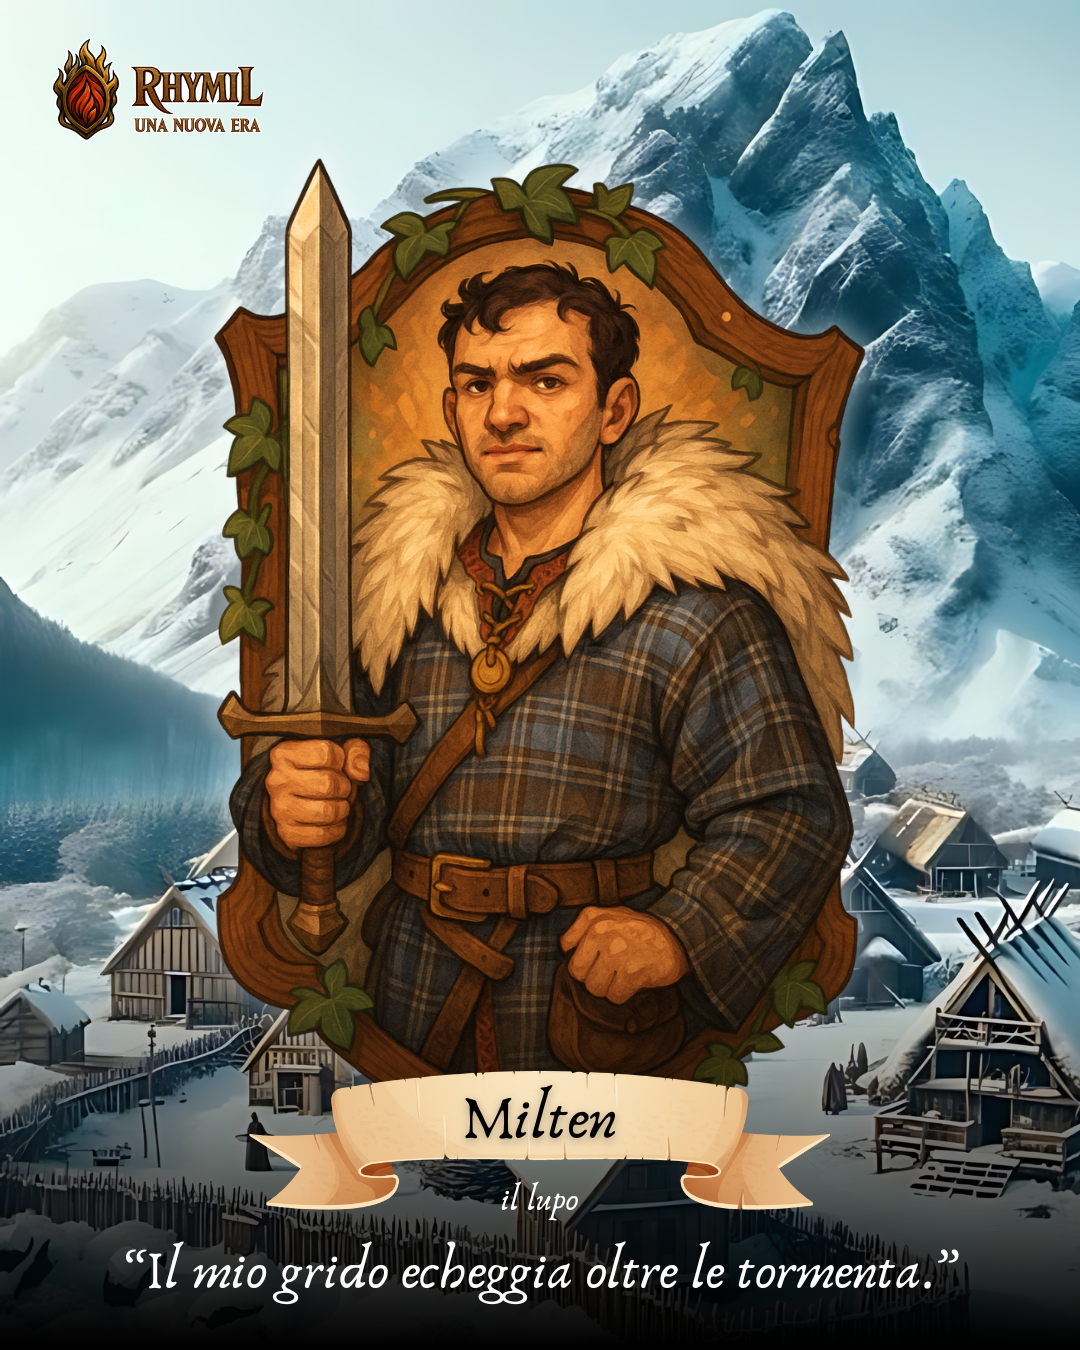
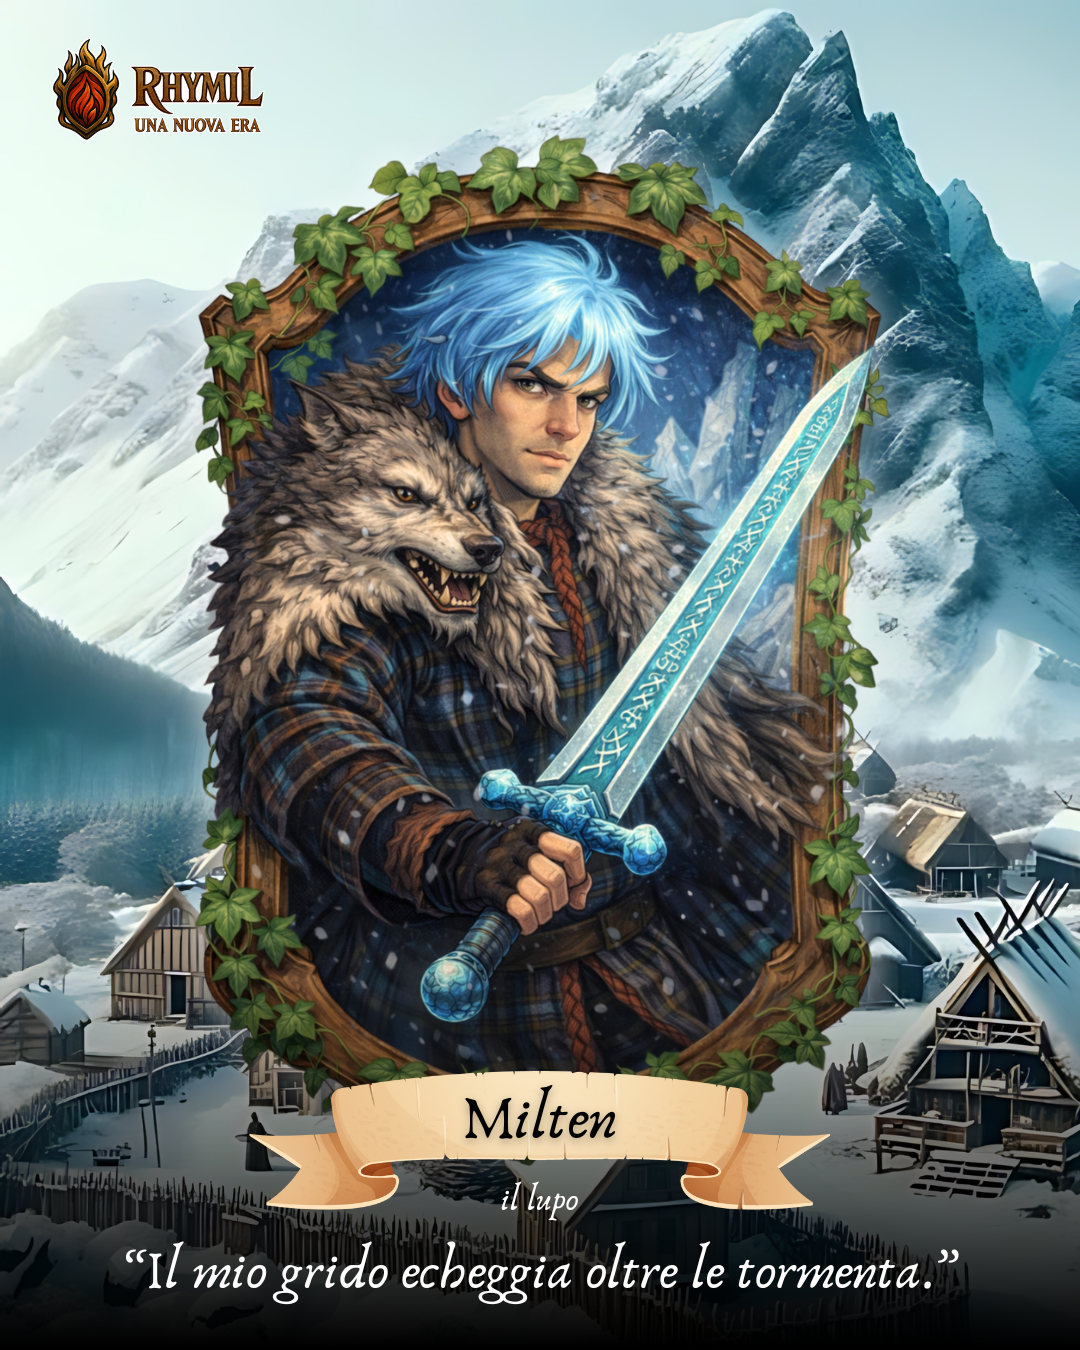
pg with chatgpt 5.2

diff --git a/index.html b/index.html
@@ -121,7 +121,7 @@
   <body>
     <header id="header">
       <div class="inner">
-        <p class="version">v1.8</p>
+        <p class="version">v1.9</p>
         <a href="#" class="image logo"><img src="./images/avatar.png" /></a>
         <p class="description">
           Benvenuto su Rhymil, il sito web centralizzatore di link ed
@@ -213,27 +213,6 @@
         </li>
       </ul>
       <div class="factions">
-        
-        
-        
-        
-        
-        
-        
-        
-        
-        
-        
-        
-        
-        
-        
-        
-        
-        
-        
-        
-        
         
         
         
@@ -472,9 +451,6 @@
           </section>
 
           
-  
-  
-  
   <section id="section-stato-del-popolo-libero" class="panel-section">
     <h3 class="panel-title">
       ✊ Stato del Popolo Libero
@@ -538,8 +514,8 @@
     </span>
   </a>
 
-  <a href="/rhymil/stato-del-popolo-libero/p_mallacht.png?version=1" data-pswp-width="1080" data-pswp-height="1350" title="Mallacht Barbabianca">
-    <img src="/rhymil/stato-del-popolo-libero/thumb/p_mallacht.png?version=1" width="110" alt="Mallacht Barbabianca" loading="lazy" />
+  <a href="/rhymil/stato-del-popolo-libero/p_mallacht.png?version=2" data-pswp-width="1080" data-pswp-height="1350" title="Mallacht Barbabianca">
+    <img src="/rhymil/stato-del-popolo-libero/thumb/p_mallacht.png?version=2" width="110" alt="Mallacht Barbabianca" loading="lazy" />
     <span class="pswp-caption-content">
       <span class="myimage-name">Mallacht Barbabianca</span>
       <span class="myimage-owner">- Pietro Burato</span><br />
@@ -553,6 +529,24 @@
       <span class="myimage-name">Eryn</span>
       <span class="myimage-owner">- Elena Milanese</span><br />
       <span class="myimage-desc">Eryn è una Kiuth, è sempre stata vista come &#39;diversa&#39;, alcuni abbassano lo sguardo o cambiano strada a causa del suo aspetto. Lei non capisce questa cosa perché è sempre stata buona con tutti e ha sempre tentato di aiutare e proteggere. Vissuta in una famiglia di pescatori umili che hanno sempre avuto dei valori forti, ora è partita per dare un contributo anche lei e aiutare a mandare avanti l&#39;attività di famiglia.</span>
+    </span>
+  </a>
+
+  <a href="/rhymil/stato-del-popolo-libero/p_morwen.png?version=1" data-pswp-width="1080" data-pswp-height="1350" title="Morwen">
+    <img src="/rhymil/stato-del-popolo-libero/thumb/p_morwen.png?version=1" width="110" alt="Morwen" loading="lazy" />
+    <span class="pswp-caption-content">
+      <span class="myimage-name">Morwen</span>
+      <span class="myimage-owner">- Jessica Ballotta</span><br />
+      <span class="myimage-desc"></span>
+    </span>
+  </a>
+
+  <a href="/rhymil/stato-del-popolo-libero/p_duncan.png?version=1" data-pswp-width="1080" data-pswp-height="1350" title="Duncan">
+    <img src="/rhymil/stato-del-popolo-libero/thumb/p_duncan.png?version=1" width="110" alt="Duncan" loading="lazy" />
+    <span class="pswp-caption-content">
+      <span class="myimage-name">Duncan</span>
+      <span class="myimage-owner">- Cristiano Padovani</span><br />
+      <span class="myimage-desc"></span>
     </span>
   </a>
 
@@ -604,9 +598,6 @@
   </section>
 
           
-  
-  
-  
   <section id="section-terre-barbariche" class="panel-section">
     <h3 class="panel-title">
       🏺 Terre Barbariche
@@ -670,12 +661,12 @@
     </span>
   </a>
 
-  <a href="/rhymil/terre-barbariche/p_milten.png?version=1" data-pswp-width="1080" data-pswp-height="1350" title="Milten">
-    <img src="/rhymil/terre-barbariche/thumb/p_milten.png?version=1" width="110" alt="Milten" loading="lazy" />
+  <a href="/rhymil/terre-barbariche/p_milten.png?version=2" data-pswp-width="1080" data-pswp-height="1350" title="Milten">
+    <img src="/rhymil/terre-barbariche/thumb/p_milten.png?version=2" width="110" alt="Milten" loading="lazy" />
     <span class="pswp-caption-content">
       <span class="myimage-name">Milten</span>
-      
-      <span class="myimage-desc"></span>
+      <span class="myimage-owner">- Tiziano Termini</span><br />
+      <span class="myimage-desc">Sciamano del clan del lupo bianco e aspirante ritualista. Da sempre ho dimostrato affinità con gli spiriti poiché il loro mondo mi affascina molto. Mi sono unito alla spedizione per fare esperienza e carriera nel mio settore in cerca di risposte ben precise, ma soprattutto in cerca dell&#39;ombra poiché mi ha portato via qualcuno di caro.</span>
     </span>
   </a>
 
@@ -763,9 +754,6 @@
   </section>
 
           
-  
-  
-  
   <section id="section-ordine-clericale" class="panel-section">
     <h3 class="panel-title">
       📜 Ordine Clericale
@@ -784,19 +772,28 @@
     </span>
   </a>
 
-  <a href="/rhymil/ordine-clericale/p_ahryn.png?version=1" data-pswp-width="1080" data-pswp-height="1350" title="Ahryn">
-    <img src="/rhymil/ordine-clericale/thumb/p_ahryn.png?version=1" width="110" alt="Ahryn" loading="lazy" />
+  <a href="/rhymil/ordine-clericale/p_simon.png?version=2" data-pswp-width="1080" data-pswp-height="1350" title="Simon Ashen">
+    <img src="/rhymil/ordine-clericale/thumb/p_simon.png?version=2" width="110" alt="Simon Ashen" loading="lazy" />
     <span class="pswp-caption-content">
-      <span class="myimage-name">Ahryn</span>
-      
+      <span class="myimage-name">Simon Ashen</span>
+      <span class="myimage-owner">- Eddy Berardi</span><br />
+      <span class="myimage-desc">Ex Cavaliere che lotta incessantemente col Demone che alberga dentro di sé. La sua missione è riuscire a domare il potere demoniaco e metterlo al servizio di Rhymil. Attualmente sotto la custodia del Primo Inquisitore. Svolge ad ora il compito di guardiano e protettore dei membri dell&#39;Ordine Clericale  della Spedizione.</span>
+    </span>
+  </a>
+
+  <a href="/rhymil/ordine-clericale/p_odo.png?version=2" data-pswp-width="1080" data-pswp-height="1350" title="Odo">
+    <img src="/rhymil/ordine-clericale/thumb/p_odo.png?version=2" width="110" alt="Odo" loading="lazy" />
+    <span class="pswp-caption-content">
+      <span class="myimage-name">Odo</span>
+      <span class="myimage-owner">- Alex Granzotto</span><br />
       <span class="myimage-desc"></span>
     </span>
   </a>
 
-  <a href="/rhymil/ordine-clericale/p_hodo.png?version=1" data-pswp-width="1080" data-pswp-height="1350" title="Hodo">
-    <img src="/rhymil/ordine-clericale/thumb/p_hodo.png?version=1" width="110" alt="Hodo" loading="lazy" />
+  <a href="/rhymil/ordine-clericale/p_ahryn.png?version=1" data-pswp-width="1080" data-pswp-height="1350" title="Ahryn">
+    <img src="/rhymil/ordine-clericale/thumb/p_ahryn.png?version=1" width="110" alt="Ahryn" loading="lazy" />
     <span class="pswp-caption-content">
-      <span class="myimage-name">Hodo</span>
+      <span class="myimage-name">Ahryn</span>
       
       <span class="myimage-desc"></span>
     </span>
@@ -841,9 +838,6 @@
   </section>
 
           
-  
-  
-  
   <section id="section-ordine-dei-maghi" class="panel-section">
     <h3 class="panel-title">
       🔮 Ordine dei Maghi
@@ -928,9 +922,6 @@
   </section>
 
           
-  
-  
-  
   <section id="section-ordine-dei-paladini" class="panel-section">
     <h3 class="panel-title">
       🛡 Ordine dei Paladini
@@ -1033,9 +1024,6 @@
   </section>
 
           
-  
-  
-  
   <section id="section-ordine-dei-cavalieri" class="panel-section">
     <h3 class="panel-title">
       ⚔ Ordine dei Cavalieri
@@ -1045,24 +1033,6 @@
     </header>
     <div class="pswp-gallery" id="gallery--ordine-dei-cavalieri">
       
-  <a href="/rhymil/ordine-dei-cavalieri/p_simon.png?version=1" data-pswp-width="1080" data-pswp-height="1350" title="Simon Ashen">
-    <img src="/rhymil/ordine-dei-cavalieri/thumb/p_simon.png?version=1" width="110" alt="Simon Ashen" loading="lazy" />
-    <span class="pswp-caption-content">
-      <span class="myimage-name">Simon Ashen</span>
-      <span class="myimage-owner">- Eddy Berardi</span><br />
-      <span class="myimage-desc">Cavaliere di seconda generazione, all&#39;apparenza serioso e corrucciato, in realtà lo è davvero. Abile spadaccino a due lame, è il primo a gettarsi a capofitto nelle battaglie. In lui arde un forte senso di giustizia.</span>
-    </span>
-  </a>
-
-  <a href="/rhymil/ordine-dei-cavalieri/p_sander.png?version=1" data-pswp-width="1080" data-pswp-height="1350" title="Sander">
-    <img src="/rhymil/ordine-dei-cavalieri/thumb/p_sander.png?version=1" width="110" alt="Sander" loading="lazy" />
-    <span class="pswp-caption-content">
-      <span class="myimage-name">Sander</span>
-      
-      <span class="myimage-desc"></span>
-    </span>
-  </a>
-
   <a href="/rhymil/ordine-dei-cavalieri/p_rodrigo.png?version=1" data-pswp-width="1080" data-pswp-height="1350" title="Rodrigo">
     <img src="/rhymil/ordine-dei-cavalieri/thumb/p_rodrigo.png?version=1" width="110" alt="Rodrigo" loading="lazy" />
     <span class="pswp-caption-content">
@@ -1076,6 +1046,24 @@
     <img src="/rhymil/ordine-dei-cavalieri/thumb/p_beruthiel.png?version=1" width="110" alt="Beruthiel" loading="lazy" />
     <span class="pswp-caption-content">
       <span class="myimage-name">Beruthiel</span>
+      
+      <span class="myimage-desc"></span>
+    </span>
+  </a>
+
+  <a href="/rhymil/ordine-dei-cavalieri/p_eryndal.png?version=1" data-pswp-width="1080" data-pswp-height="1350" title="Eryndal Thalen">
+    <img src="/rhymil/ordine-dei-cavalieri/thumb/p_eryndal.png?version=1" width="110" alt="Eryndal Thalen" loading="lazy" />
+    <span class="pswp-caption-content">
+      <span class="myimage-name">Eryndal Thalen</span>
+      <span class="myimage-owner">- Offi Christopher</span><br />
+      <span class="myimage-desc">Lui era un cavaliere senza coraggio, ma con più fede di qualunque paladino. Nella paura, era guidato dalla speranza: la speranza di farcela, di resistere, di ritrovare ciò che aveva perduto lungo il cammino. Non combatteva per gloria né per onore, ma per ciò che restava in piedi quando tutto il resto crollava. Ogni sua freccia valeva più di ogni dubbio che lo attraversava, ogni respiro era una scelta, ogni passo una sfida silenziosa. E non mancava mai il bersaglio, anche se esitava a scoccare per primo, se non quando farlo significava salvare gli altri. Non era l’assenza di paura a renderlo forte, ma il fatto che, nonostante essa, continuasse ad avanzare. E forse era proprio questo che lo rendeva degno del nome di cavaliere.</span>
+    </span>
+  </a>
+
+  <a href="/rhymil/ordine-dei-cavalieri/p_sander.png?version=1" data-pswp-width="1080" data-pswp-height="1350" title="Sander">
+    <img src="/rhymil/ordine-dei-cavalieri/thumb/p_sander.png?version=1" width="110" alt="Sander" loading="lazy" />
+    <span class="pswp-caption-content">
+      <span class="myimage-name">Sander</span>
       
       <span class="myimage-desc"></span>
     </span>
@@ -1120,9 +1108,6 @@
   </section>
 
           
-  
-  
-  
   <section id="section-fratellanza-dei-pirati" class="panel-section">
     <h3 class="panel-title">
       🏴☠ Nuova Fratellanza dei Pirati
@@ -1132,8 +1117,8 @@
     </header>
     <div class="pswp-gallery" id="gallery--fratellanza-dei-pirati">
       
-  <a href="/rhymil/fratellanza-dei-pirati/p_barbabrace.png?version=2" data-pswp-width="1080" data-pswp-height="1350" title="Barbabrace">
-    <img src="/rhymil/fratellanza-dei-pirati/thumb/p_barbabrace.png?version=2" width="110" alt="Barbabrace" loading="lazy" />
+  <a href="/rhymil/fratellanza-dei-pirati/p_barbabrace.png?version=3" data-pswp-width="1080" data-pswp-height="1350" title="Barbabrace">
+    <img src="/rhymil/fratellanza-dei-pirati/thumb/p_barbabrace.png?version=3" width="110" alt="Barbabrace" loading="lazy" />
     <span class="pswp-caption-content">
       <span class="myimage-name">Barbabrace</span>
       <span class="myimage-owner">- Alberto Fardin</span><br />
@@ -1231,8 +1216,8 @@
     </span>
   </a>
 
-  <a href="/rhymil/fratellanza-dei-pirati/m_taritas.png?version=1" data-pswp-width="1080" data-pswp-height="1350" title="Taritas">
-    <img src="/rhymil/fratellanza-dei-pirati/thumb/m_taritas.png?version=1" width="110" alt="Taritas" loading="lazy" />
+  <a href="/rhymil/fratellanza-dei-pirati/m_taritas.png?version=2" data-pswp-width="1080" data-pswp-height="1350" title="Taritas">
+    <img src="/rhymil/fratellanza-dei-pirati/thumb/m_taritas.png?version=2" width="110" alt="Taritas" loading="lazy" />
     <span class="pswp-caption-content">
       <span class="myimage-name">Taritas</span>
       <span class="myimage-owner">- master Lorenzo</span><br />
